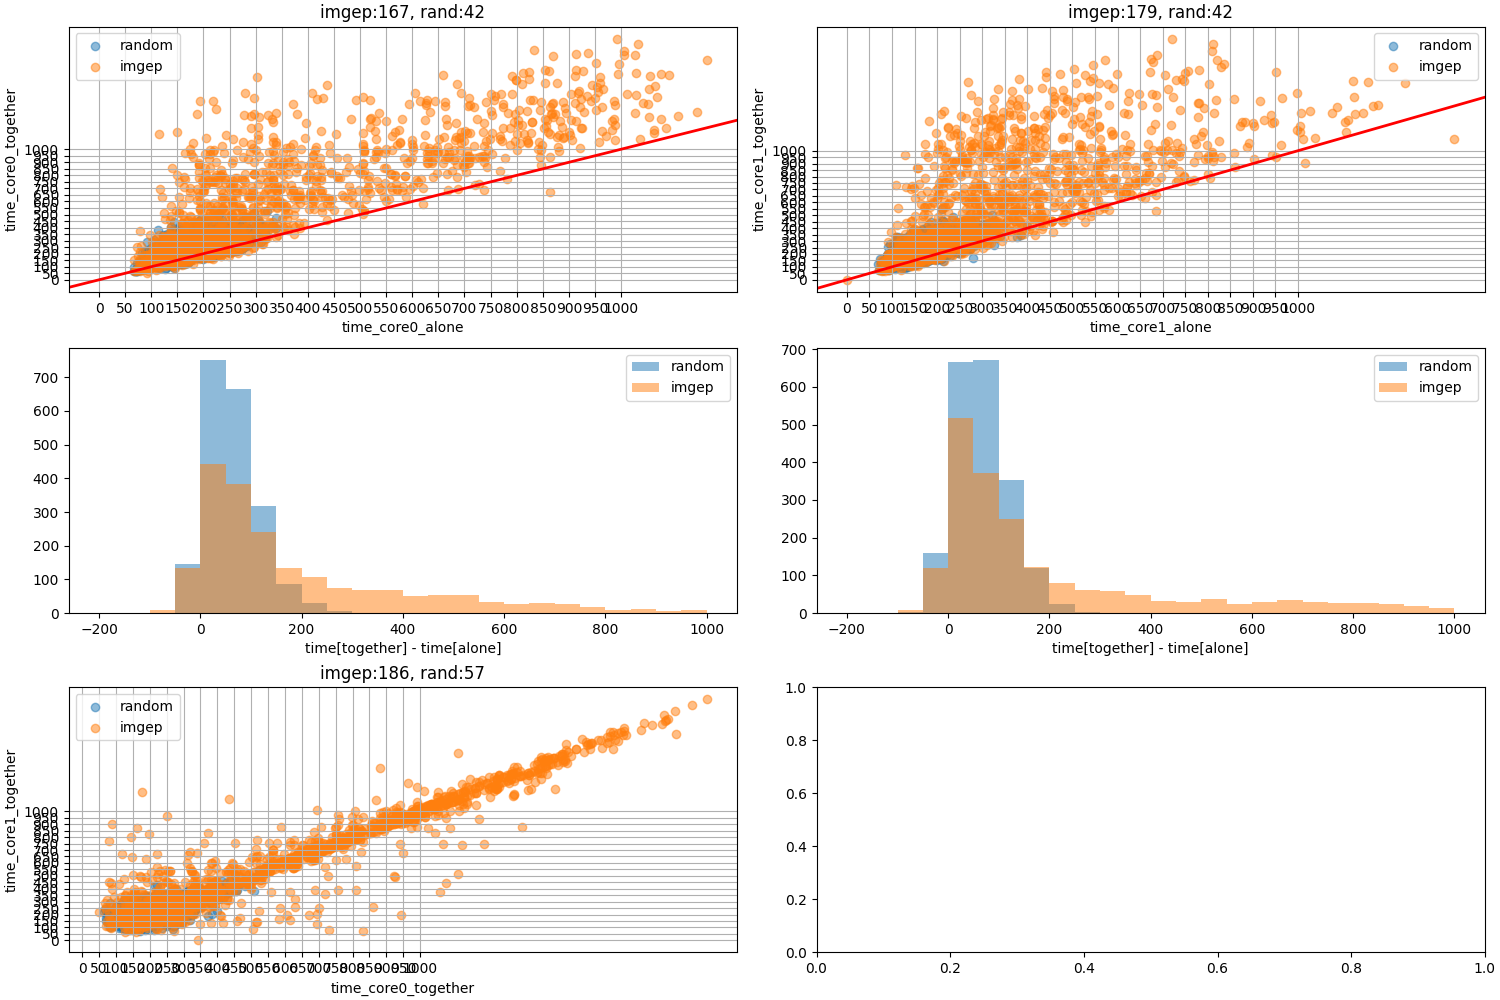
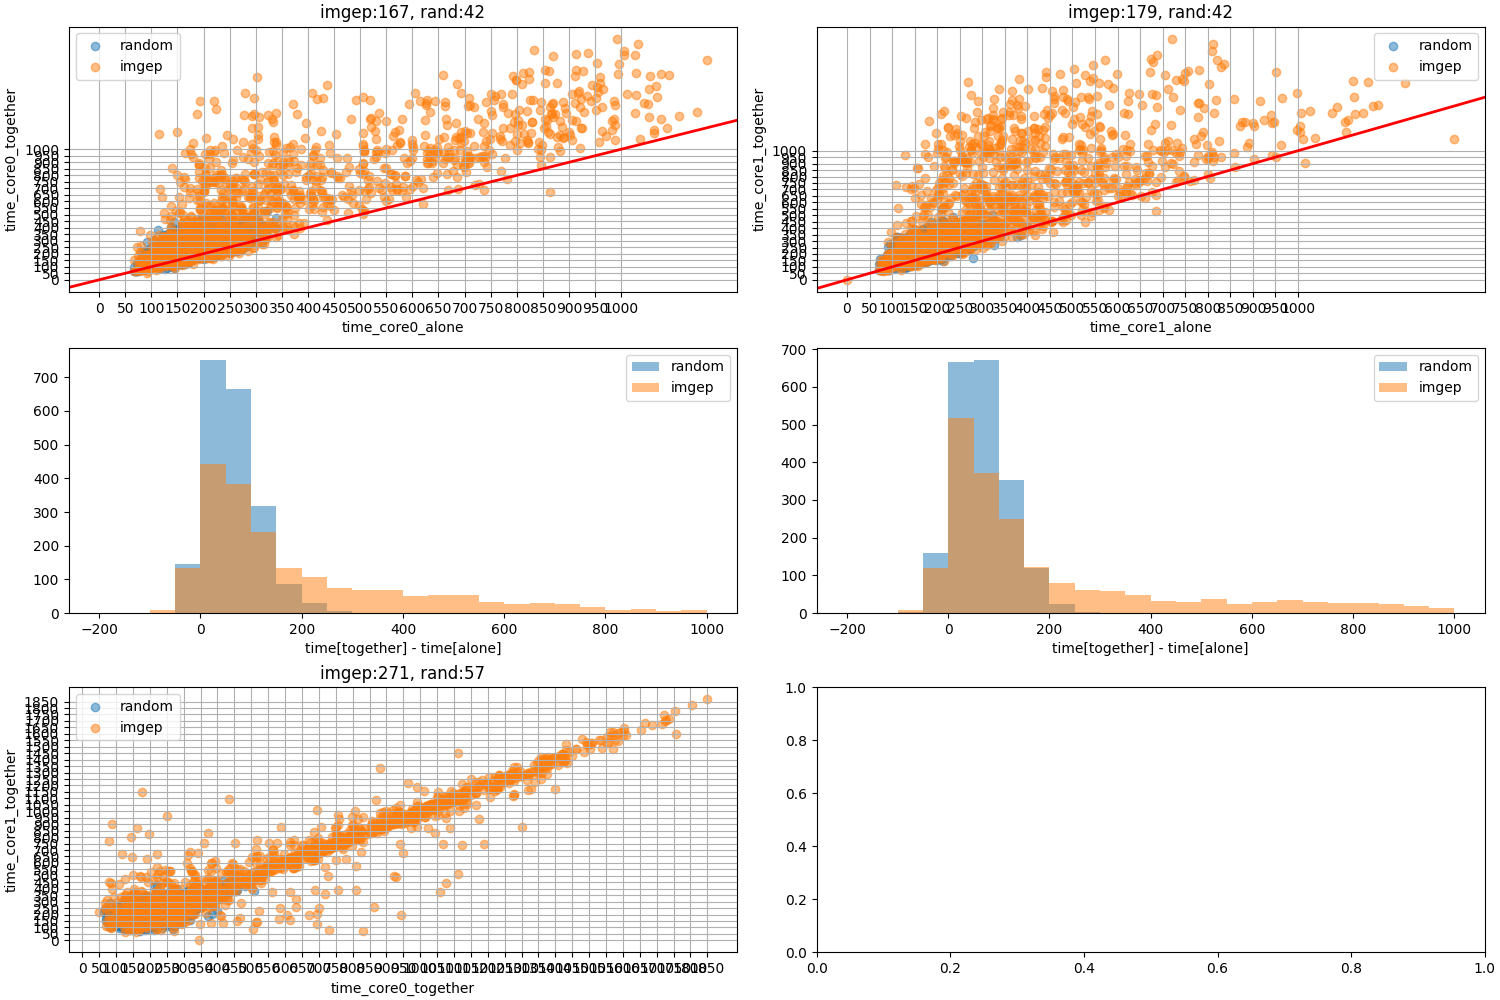
u

diff --git a/exploration/random/func.py b/exploration/random/func.py
@@ -24,43 +24,6 @@ def random_exploration(core0, core1,interconnect,ddr, budget:int=50, max_instr:i
         program.eviction()
     return list_intersection, list_obj
 
-#class Env:
-#    def __init__(self,
-#                l1_conf = {'size': 32,  'line_size': 4, 'assoc': 2},
-#                l2_conf = {'size': 128, 'line_size': 4, 'assoc': 4},
-#                l3_conf = {'size': 512, 'line_size': 4, 'assoc': 8},
-#                length_programs = 50,
-#                max_len=350):
-#        self.l1_conf = l1_conf
-#        self.l2_conf = l2_conf
-#        self.l3_conf = l3_conf
-#        self.max_len = max_len
-#        self.length_programs = length_programs
-#    def __call__(self, parameter:dict):
-#        program = self._make_program()
-#        program0 = self._make_program()
-#        program1 = self._make_program()
-#        program(parameter["core0"][0], parameter["core1"][0])
-#        program0(parameter["core0"][0],[])
-#        program1([],parameter["core1"][0])
-#        return {"core0":program.out0,
-#                "core1":program.out1,
-#                "core0_alone":program0.out0,
-#                "core1_alone":program1.out1,
-#                "perf": program.ratios,
-#                "perf_core0": program0.ratios,
-#                "perf_core1": program1.ratios,
-#                "time_core0_together":program.compl_time_core0,
-#                "time_core1_together":program.compl_time_core1,
-#                "time_core0_alone":program0.compl_time_core0,
-#                "time_core1_alone":program1.compl_time_core1,
-#                }
-#    def _make_program(self):
-#        ddr = DDRMemory()
-#        interconnect = Interconnect(ddr, delay=5, bandwidth=4)
-#        core0 = MultiLevelCache(0, self.l1_conf, self.l2_conf, self.l3_conf, interconnect)
-#        core1 = MultiLevelCache(1, self.l1_conf, self.l2_conf, self.l3_conf, interconnect)
-#        return runpgrms(core0, core1, self.length_programs, interconnect, ddr, max_len=self.max_len)
 class RANDOM:
     def __init__(self,N:int,E:Env,H:History, H2:History=None):
         """

diff --git a/visu.py b/visu.py
@@ -106,7 +106,8 @@ def comparaison(content_random, content_imgep = None, name = None):
 
 
 
-
+    
+    bins = np.arange(0,max(np.max(content_imgep["time_core0_together"]),np.max(content_imgep["time_core1_together"])),50)
     diversity_time_rand = diversity([content_random["time_core0_together"],content_random["time_core1_together"]], [bins, bins])
     diversity_time_imgep = diversity([content_imgep["time_core0_together"],content_imgep["time_core1_together"]],[bins, bins])
     axs[2,0].scatter(content_random["time_core0_together"],content_random["time_core1_together"], label="random", alpha=.5)

diff --git a/test.py b/test.py
@@ -66,7 +66,7 @@ if __name__=="__main__":
         #save results
         H_rand.save_pickle(f"history_rand_N_{N}")
 
-    ks = [4]
+    ks = []
     for k in ks:
         print(f"start: k = {k}, N={N}")
         G = GoalGenerator(num_bank = num_bank, modules = modules)
@@ -78,6 +78,7 @@ if __name__=="__main__":
         H_imgep.save_pickle(f"history_kNN_{k}_N_{N}")
         print(f"done")
     N = 2000
+    ks = [4]
     
     for k_moins_un,name in [(k,f"data/history_kNN_{k}_N_{N}_0") for k in ks]:
         with open(name, "rb") as f:
